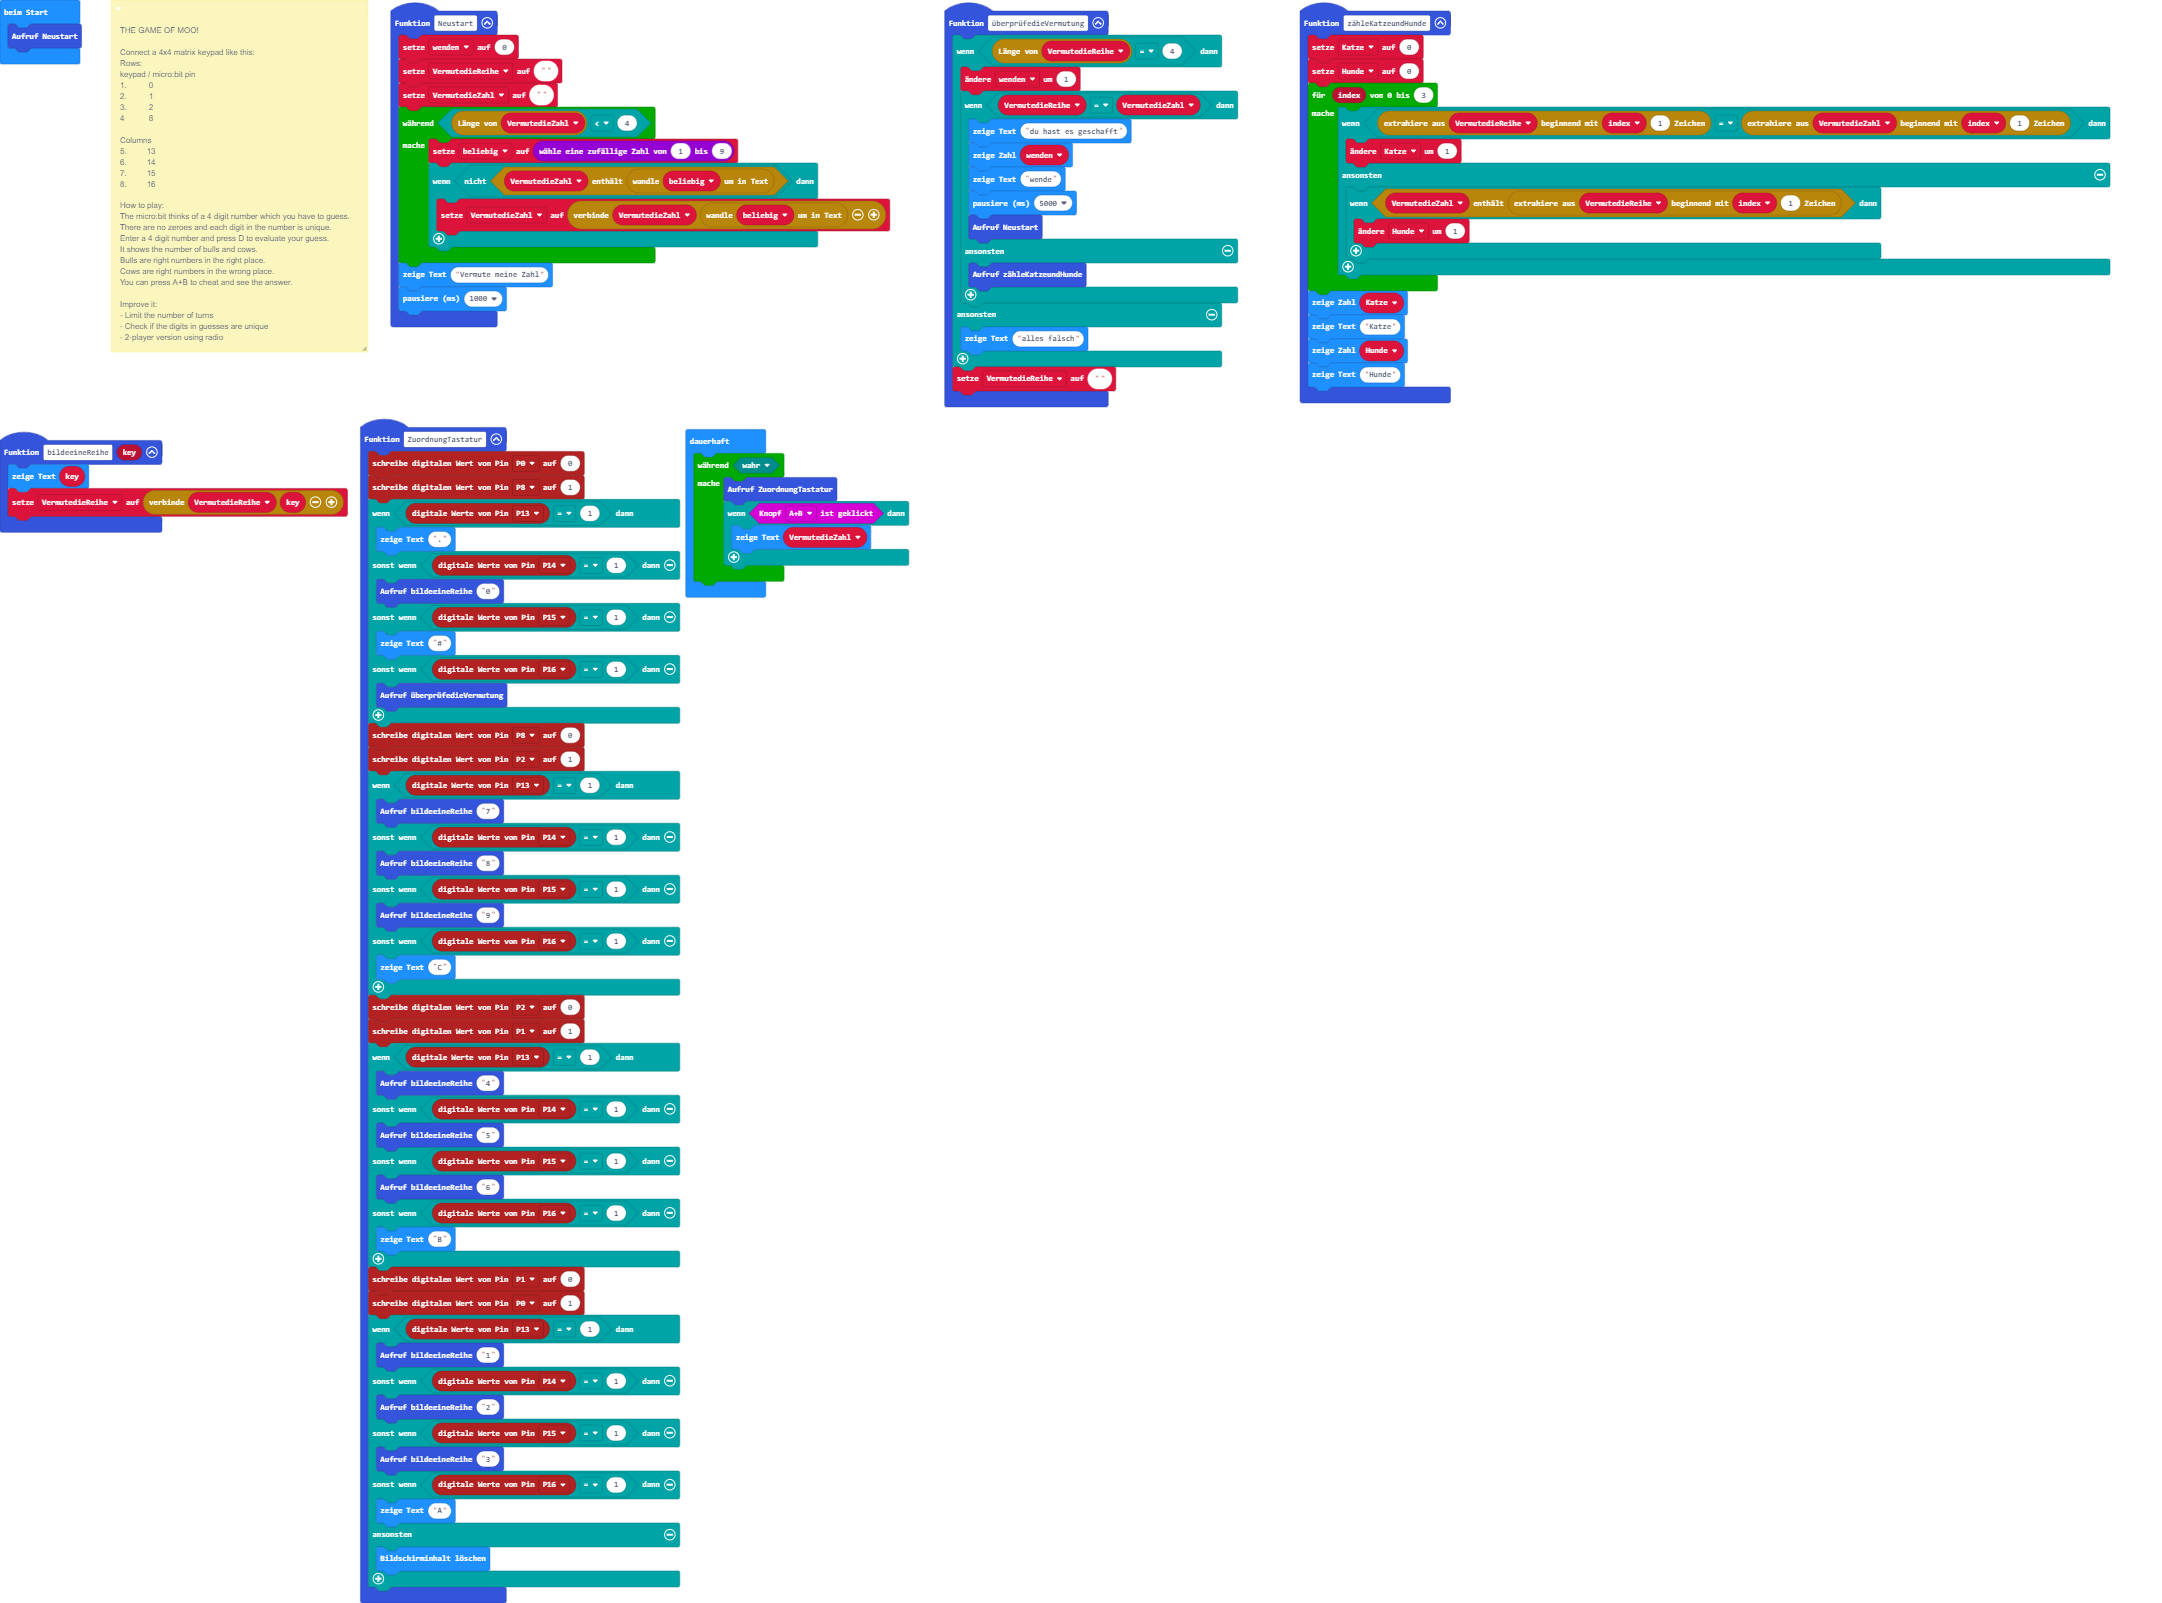
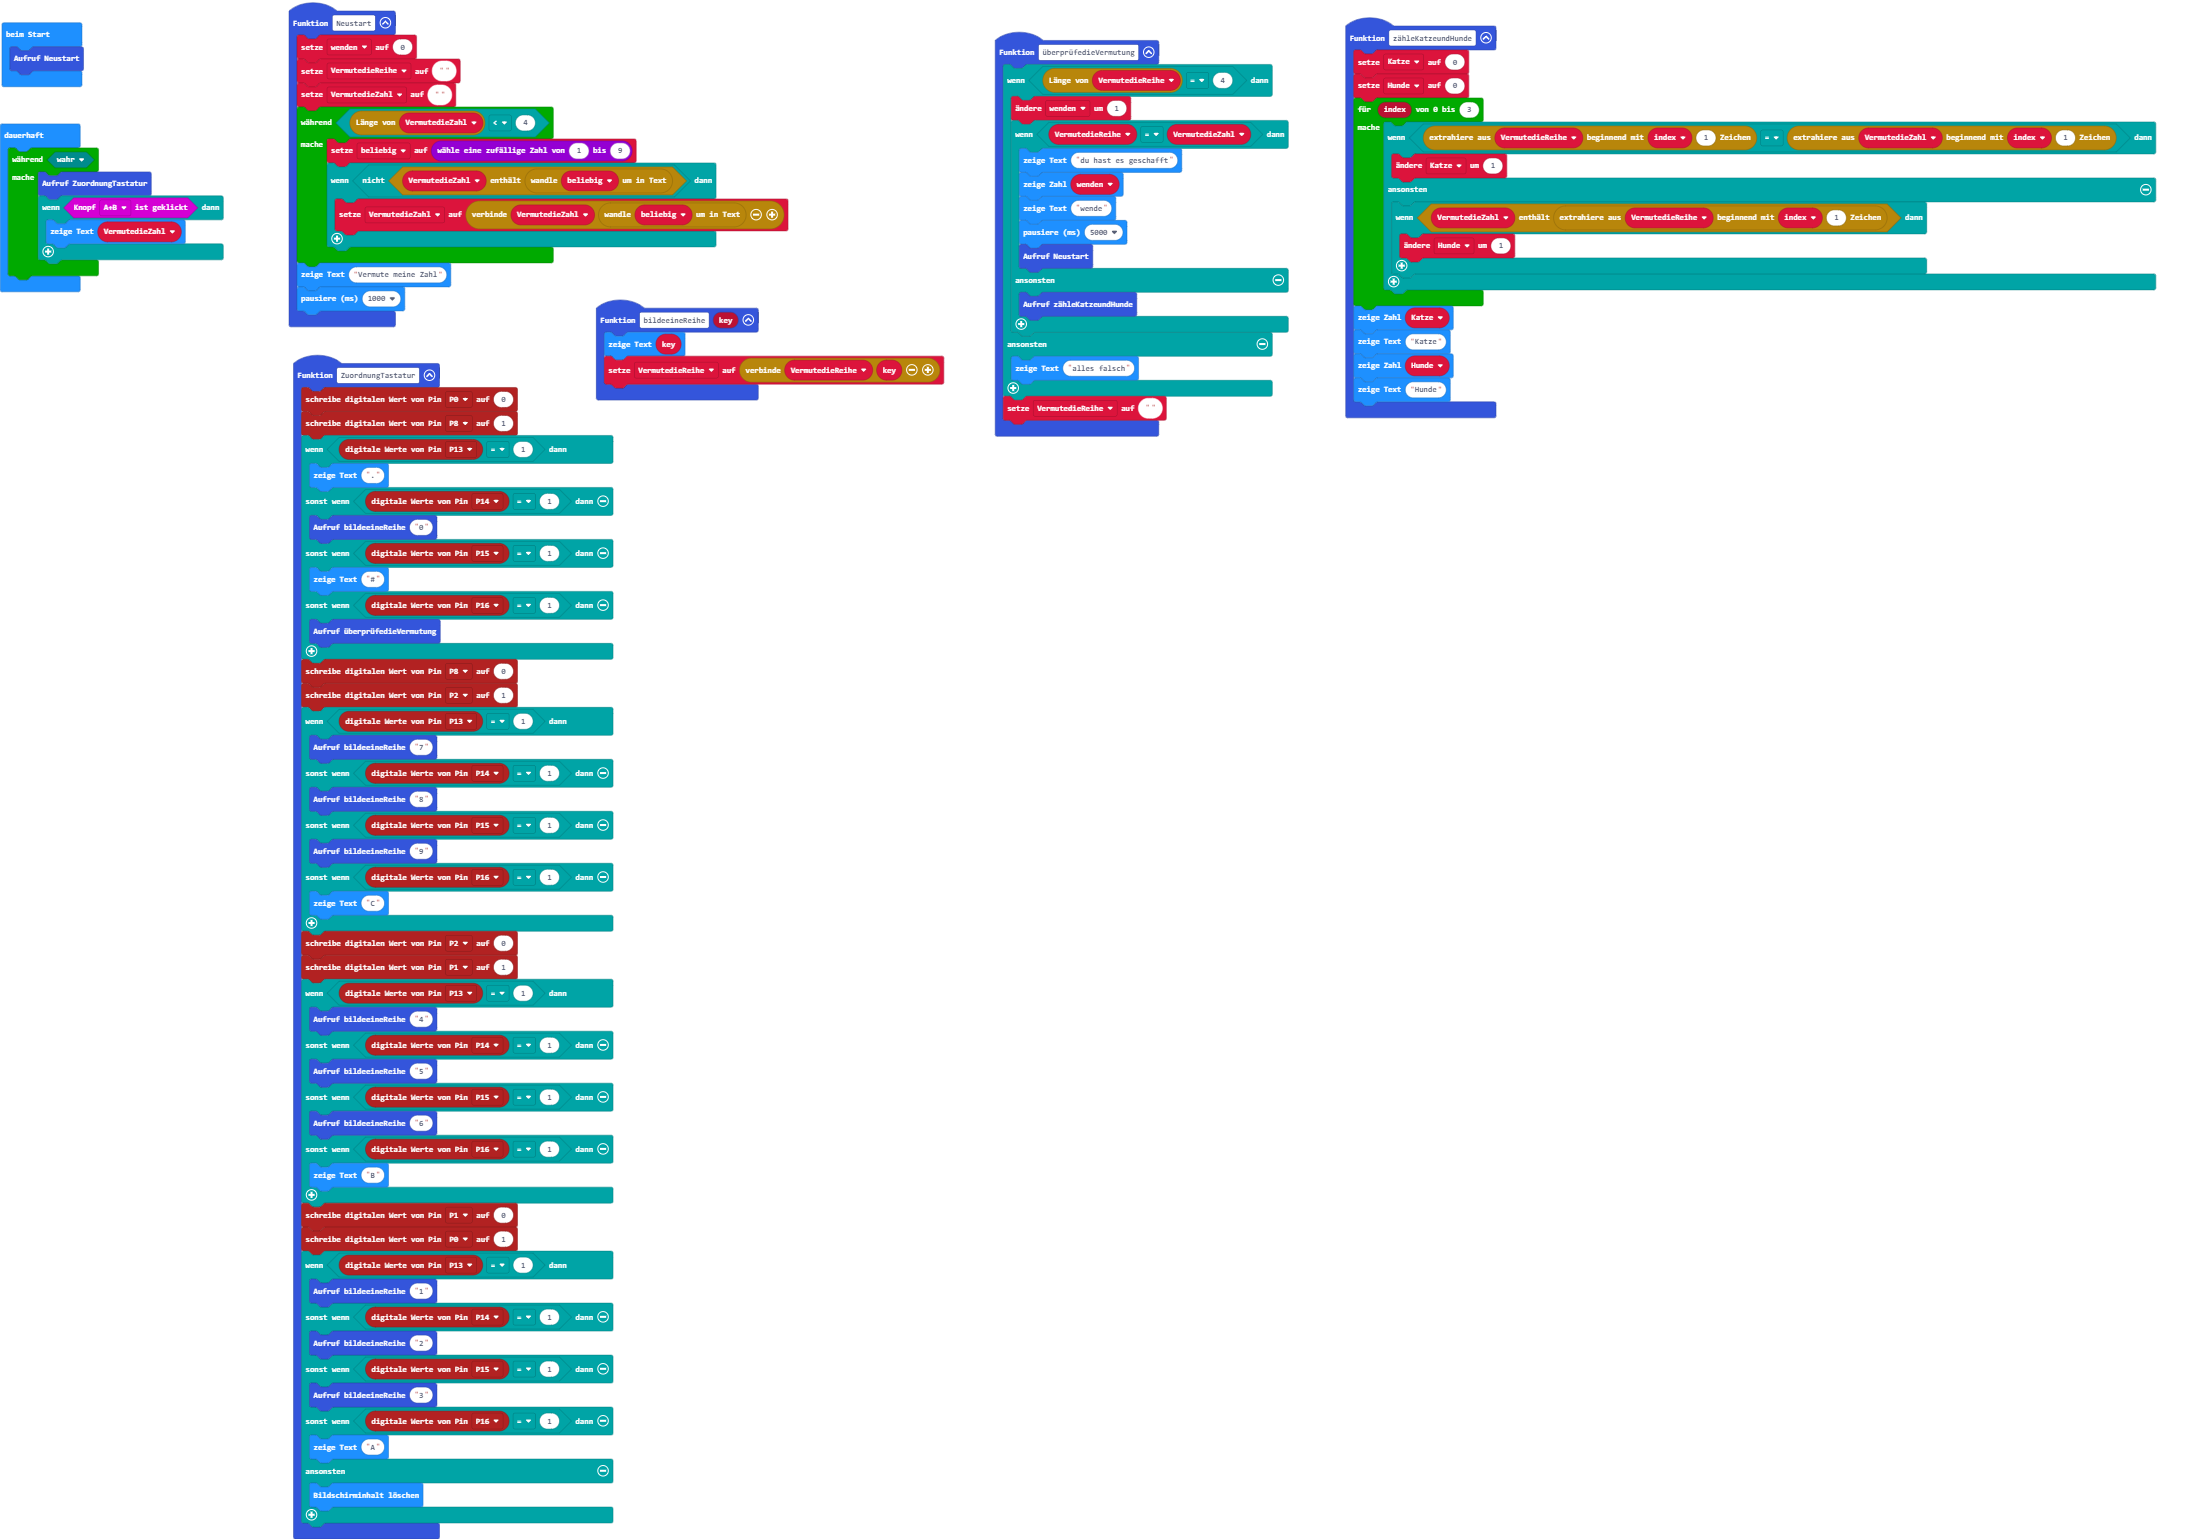
Aktualisiere main.blocks, main.ts

Changed region(s): [[0.0, 0.0, 0.9917, 1.0]]

diff --git a/main.ts b/main.ts
@@ -97,55 +97,6 @@ function ZuordnungTastatur () {
         basic.clearScreen()
     }
 }
-/**
- * THE GAME OF MOO!
- * 
- * Connect a 4x4 matrix keypad like this:
- * 
- * Rows:
- * 
- * keypad / micro:bit pin
- * 
- * 1.          0
- * 
- * 2.          1
- * 
- * 3.          2
- * 
- * 4           8
- * 
- * Columns
- * 
- * 5.         13
- * 
- * 6.         14
- * 
- * 7.         15
- * 
- * 8.         16
- * 
- * How to play:
- * 
- * The micro:bit thinks of a 4 digit number which you have to guess. There are no zeroes and each digit in the number is unique. 
- * 
- * Enter a 4 digit number and press D to evaluate your guess.
- * 
- * It shows the number of bulls and cows.
- * 
- * Bulls are right numbers in the right place.
- * 
- * Cows are right numbers in the wrong place.
- * 
- * You can press A+B to cheat and see the answer.
- * 
- * Improve it:
- * 
- * - Limit the number of turns
- * 
- * - Check if the digits in guesses are unique
- * 
- * - 2-player version using radio
- */
 let Hunde = 0
 let Katze = 0
 let beliebig = 0
